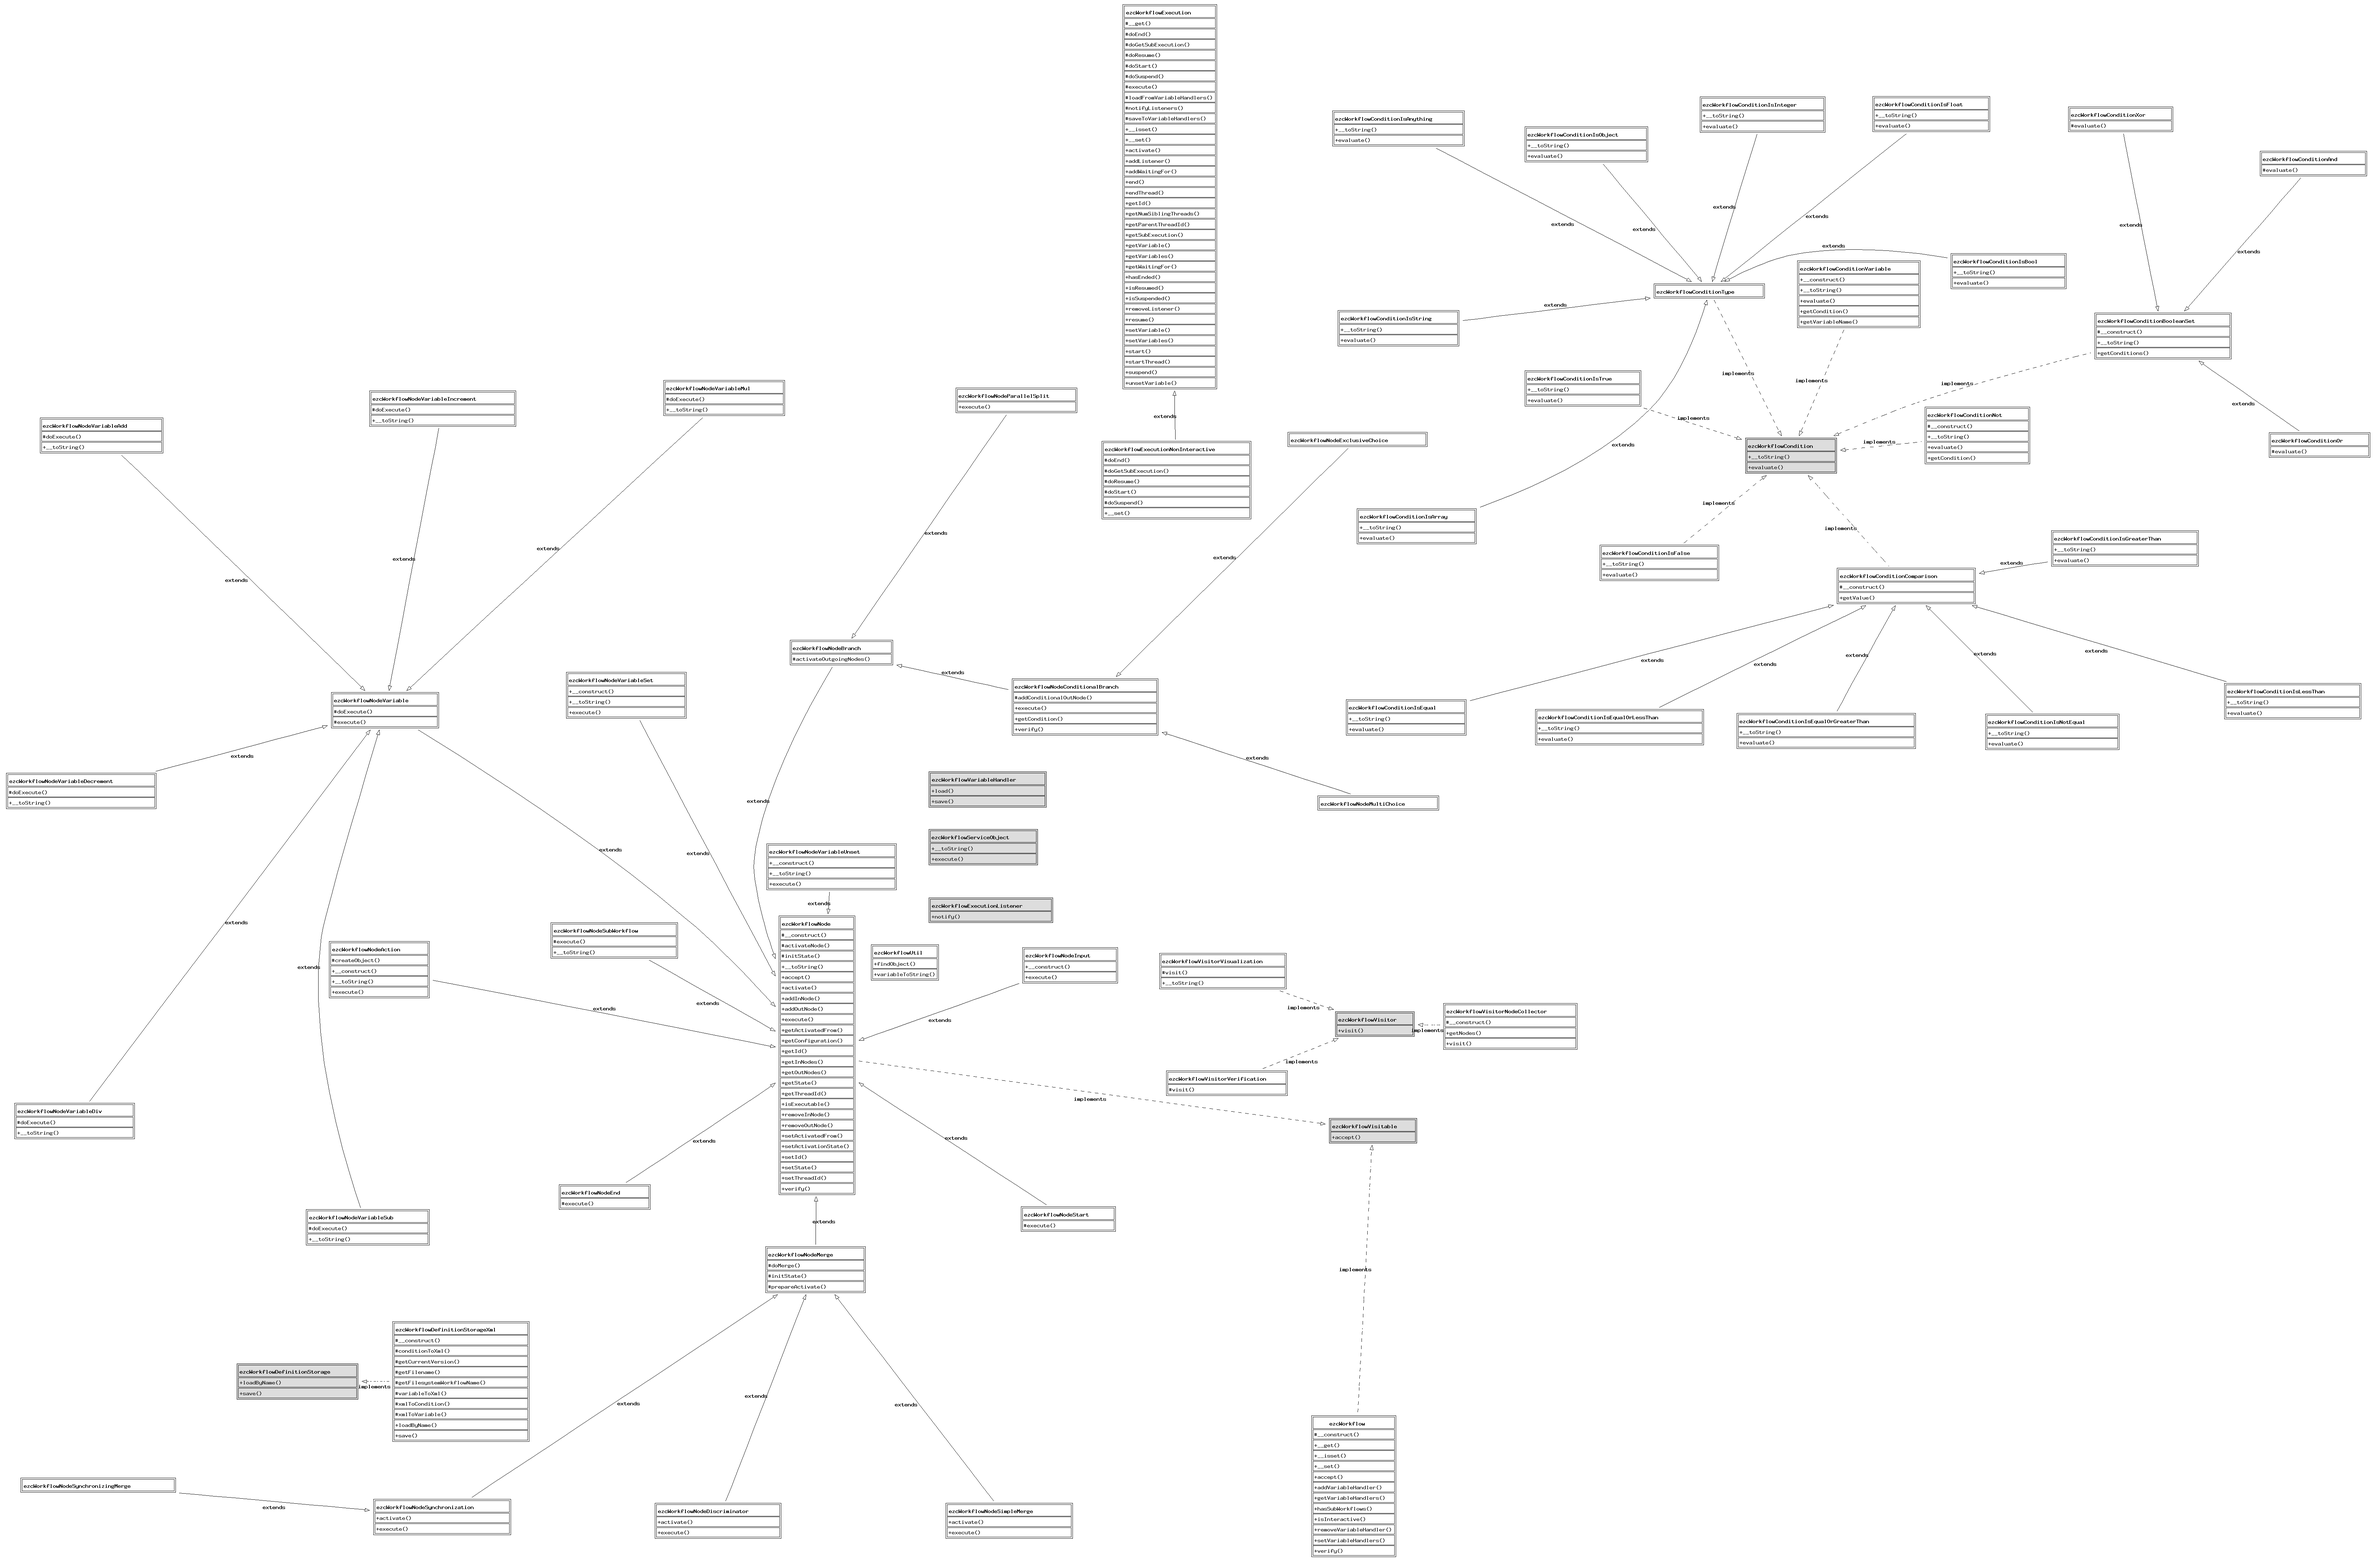
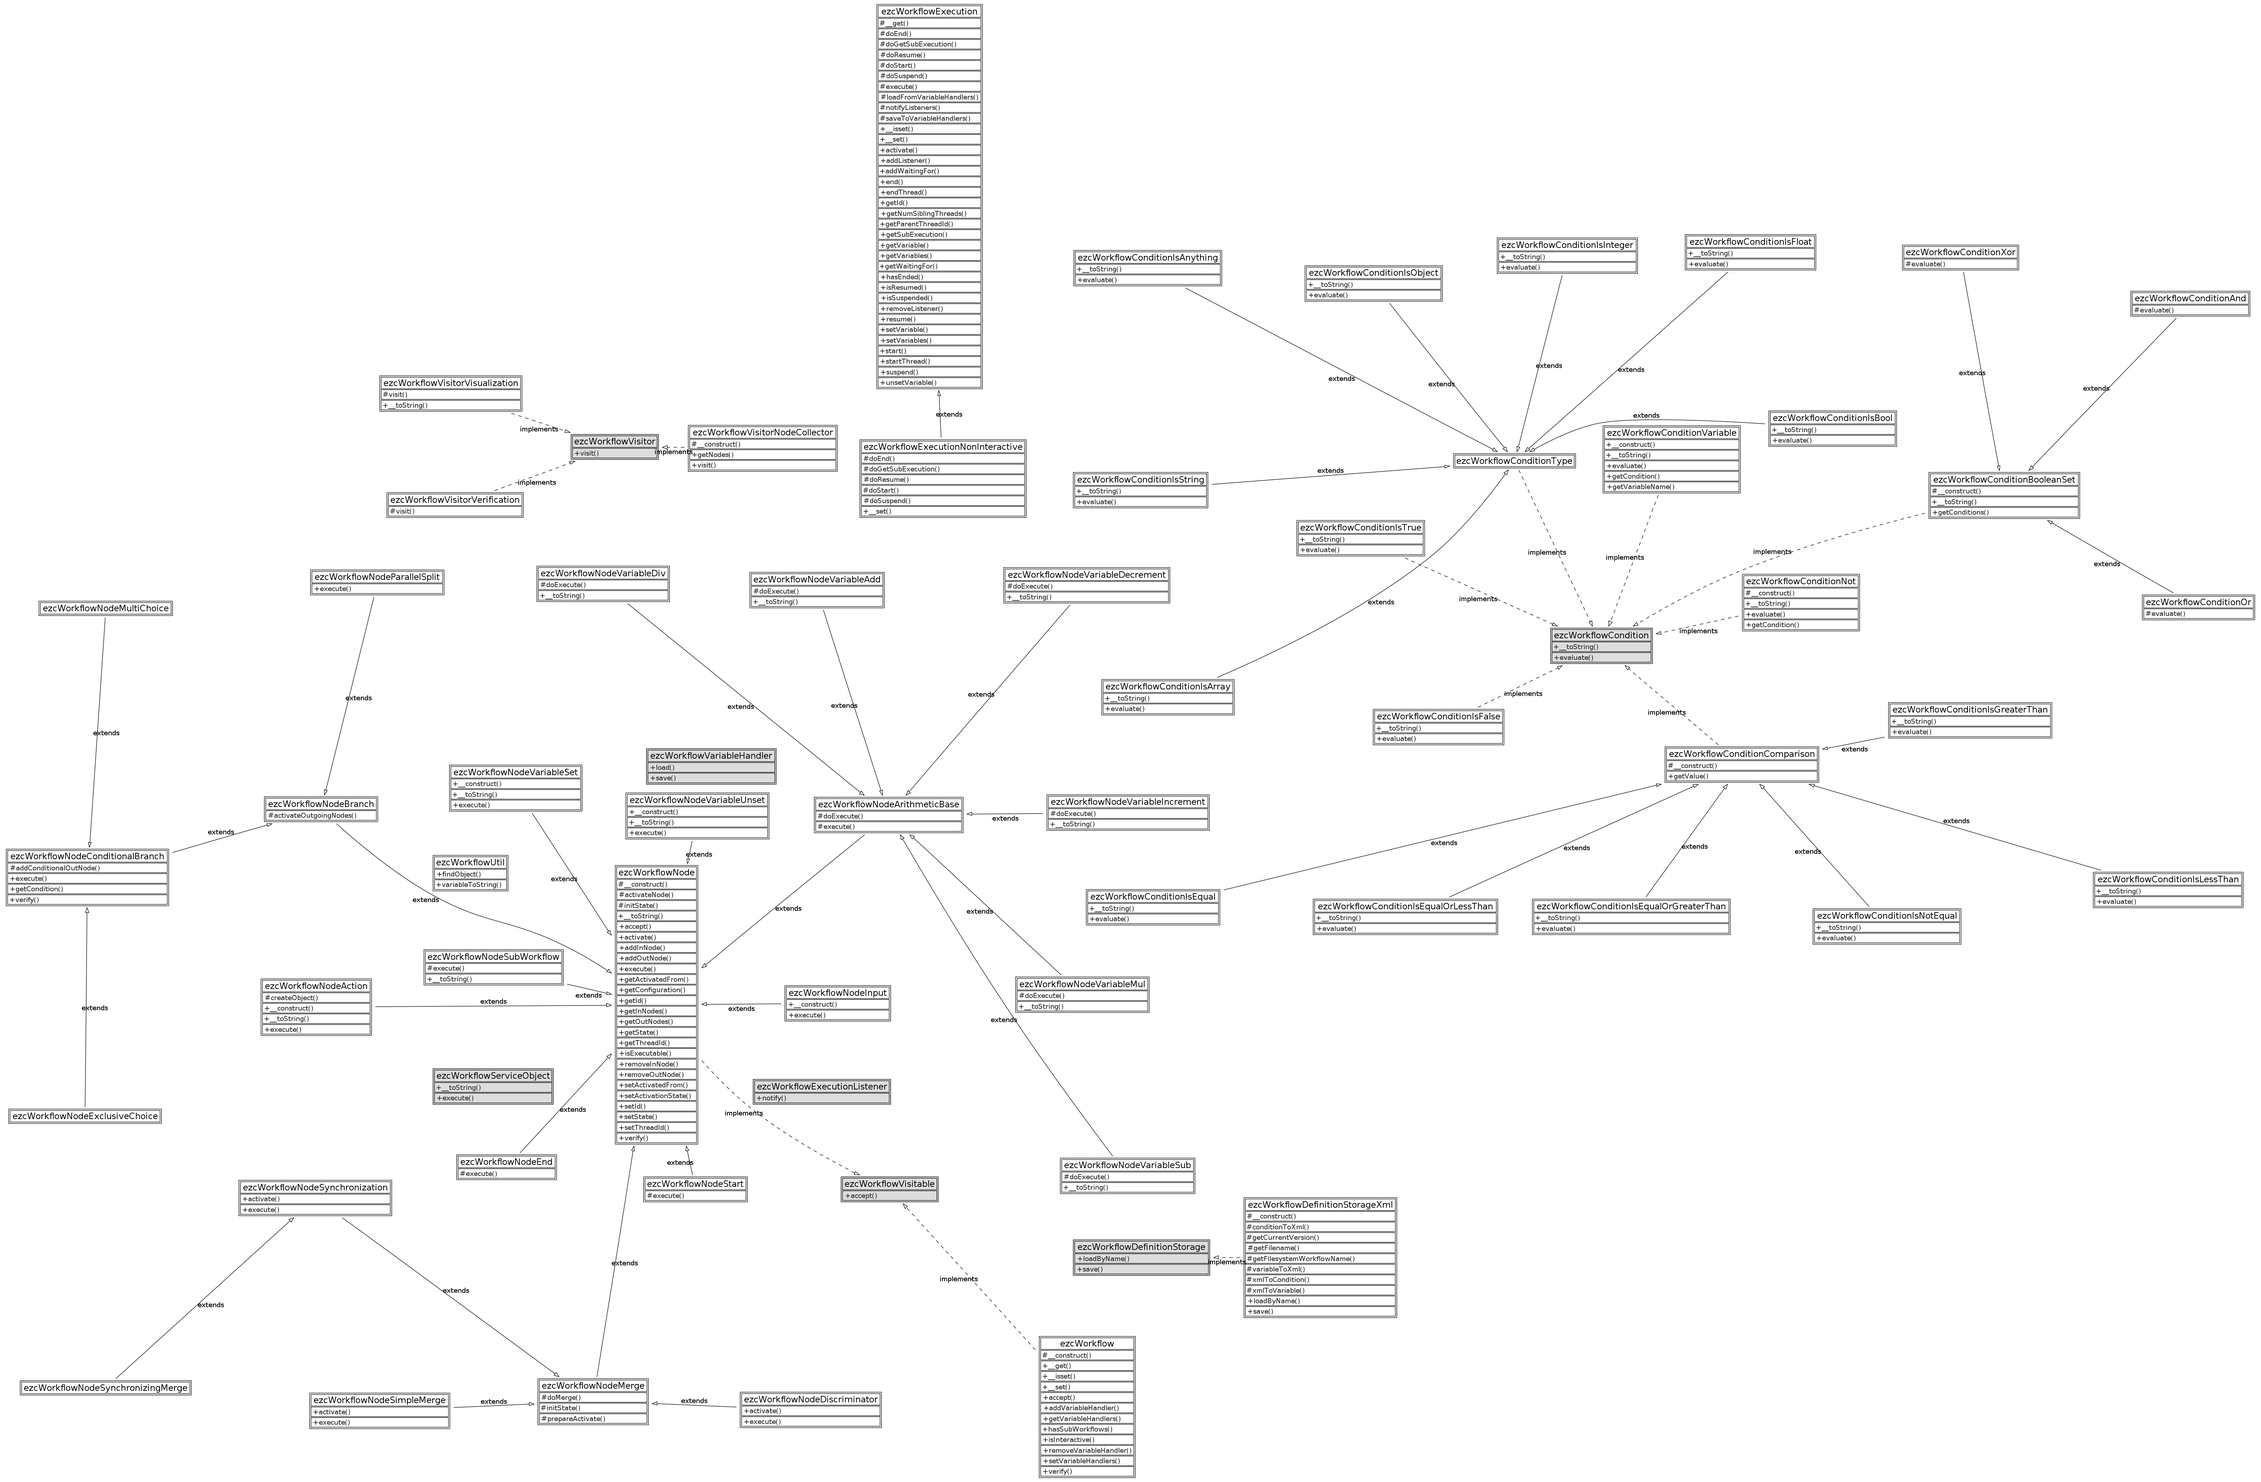
- ezcWorkflowNodeVariable -> ezcWorkflowNodeArithmeticBase
git-svn-id: https://svn.apache.org/repos/asf/incubator/zetacomponents/trunk@972682 13f79535-47bb-0310-9956-ffa450edef68

diff --git a/Workflow/src/workflow_autoload.php b/Workflow/src/workflow_autoload.php
@@ -25,9 +25,9 @@ return array(
     'ezcWorkflowConditionType'                 => 'Workflow/interfaces/condition_type.php',
     'ezcWorkflowDefinitionStorage'             => 'Workflow/interfaces/definition_storage.php',
     'ezcWorkflowExecution'                     => 'Workflow/interfaces/execution.php',
+    'ezcWorkflowNodeArithmeticBase'            => 'Workflow/interfaces/node_arithmetic_base.php',
     'ezcWorkflowNodeConditionalBranch'         => 'Workflow/interfaces/node_conditional_branch.php',
     'ezcWorkflowNodeSynchronization'           => 'Workflow/nodes/control_flow/synchronization.php',
-    'ezcWorkflowNodeVariable'                  => 'Workflow/interfaces/node_variable.php',
     'ezcWorkflowVisitor'                       => 'Workflow/interfaces/visitor.php',
     'ezcWorkflow'                              => 'Workflow/workflow.php',
     'ezcWorkflowConditionAnd'                  => 'Workflow/conditions/and.php',

diff --git a/Workflow/src/interfaces/node_arithmetic_base.php b/Workflow/src/interfaces/node_arithmetic_base.php
@@ -1,6 +1,6 @@
 <?php
 /**
- * File containing the ezcWorkflowNodeVariable class.
+ * File containing the ezcWorkflowNodeArithmeticBase class.
  *
  * @package Workflow
  * @version //autogen//
@@ -21,7 +21,7 @@
  * @package Workflow
  * @version //autogen//
  */
-abstract class ezcWorkflowNodeVariable extends ezcWorkflowNode
+abstract class ezcWorkflowNodeArithmeticBase extends ezcWorkflowNode
 {
     /**
      * Array with name and value of/for the workflow variable to be set.

diff --git a/Workflow/src/nodes/variables/add.php b/Workflow/src/nodes/variables/add.php
@@ -27,7 +27,7 @@
  * @package Workflow
  * @version //autogen//
  */
-class ezcWorkflowNodeVariableAdd extends ezcWorkflowNodeVariable
+class ezcWorkflowNodeVariableAdd extends ezcWorkflowNodeArithmeticBase
 {
     /**
      * Array with the name of the workflow variable and the value

diff --git a/Workflow/src/nodes/variables/div.php b/Workflow/src/nodes/variables/div.php
@@ -26,7 +26,7 @@
  * @package Workflow
  * @version //autogen//
  */
-class ezcWorkflowNodeVariableDiv extends ezcWorkflowNodeVariable
+class ezcWorkflowNodeVariableDiv extends ezcWorkflowNodeArithmeticBase
 {
     /**
      * Array with the name of the workflow variable and the value

diff --git a/Workflow/src/nodes/variables/mul.php b/Workflow/src/nodes/variables/mul.php
@@ -27,7 +27,7 @@
  * @package Workflow
  * @version //autogen//
  */
-class ezcWorkflowNodeVariableMul extends ezcWorkflowNodeVariable
+class ezcWorkflowNodeVariableMul extends ezcWorkflowNodeArithmeticBase
 {
     /**
      * Array with the name of the workflow variable and the value

diff --git a/Workflow/src/nodes/variables/sub.php b/Workflow/src/nodes/variables/sub.php
@@ -27,7 +27,7 @@
  * @package Workflow
  * @version //autogen//
  */
-class ezcWorkflowNodeVariableSub extends ezcWorkflowNodeVariable
+class ezcWorkflowNodeVariableSub extends ezcWorkflowNodeArithmeticBase
 {
     /**
      * Array with the name of the workflow variable and the value

diff --git a/Workflow/src/nodes/variables/decrement.php b/Workflow/src/nodes/variables/decrement.php
@@ -21,7 +21,7 @@
  * @package Workflow
  * @version //autogen//
  */
-class ezcWorkflowNodeVariableDecrement extends ezcWorkflowNodeVariable
+class ezcWorkflowNodeVariableDecrement extends ezcWorkflowNodeArithmeticBase
 {
     /**
      * The name of the variable to be decremented.

diff --git a/Workflow/src/nodes/variables/increment.php b/Workflow/src/nodes/variables/increment.php
@@ -21,7 +21,7 @@
  * @package Workflow
  * @version //autogen//
  */
-class ezcWorkflowNodeVariableIncrement extends ezcWorkflowNodeVariable
+class ezcWorkflowNodeVariableIncrement extends ezcWorkflowNodeArithmeticBase
 {
     /**
      * The name of the variable to be incremented.
